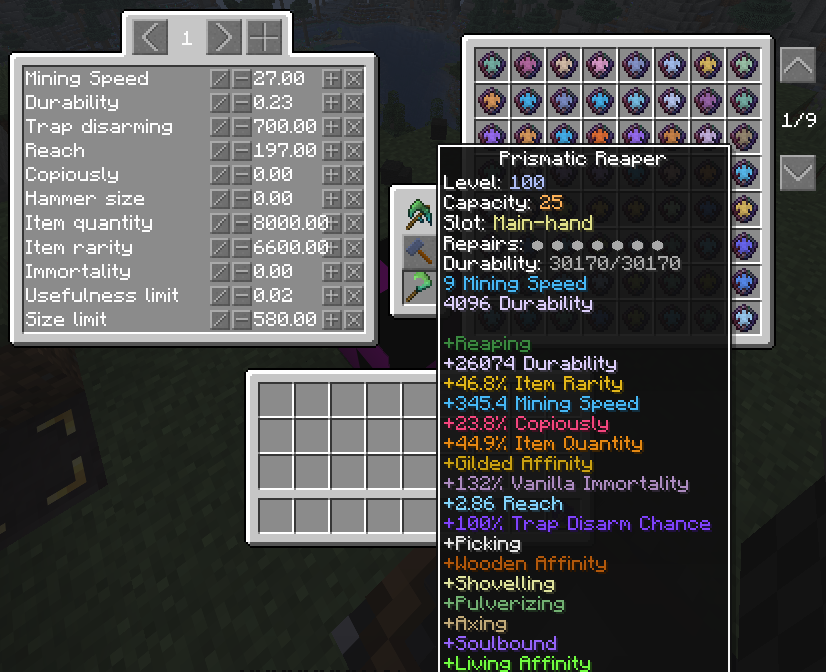
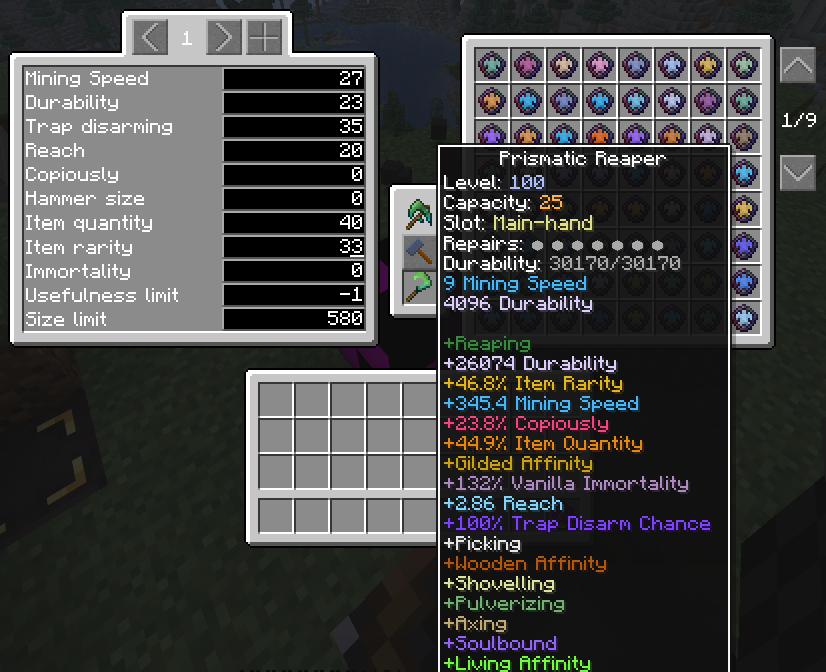
slightly adjusted normalization values photoshoped screenshot to reflect changes

Changed region(s): [[0.2421, 0.0938, 0.454, 0.5]]

diff --git a/src/main/java/implementslegendkt/mod/vaultjp/JewelAttribute.java b/src/main/java/implementslegendkt/mod/vaultjp/JewelAttribute.java
@@ -6,12 +6,12 @@ import iskallia.vault.init.ModGearAttributes;
 public enum JewelAttribute {
     MINING_SPEED(ModGearAttributes.MINING_SPEED, "vaultjp.attrib.mining_speed", 1.0),
     DURABILITY(ModGearAttributes.DURABILITY, "vaultjp.attrib.durability", 100.0),
-    TRAP_DISARMING(ModGearAttributes.TRAP_DISARMING, "vaultjp.attrib.trap_disarm", 1.0),
+    TRAP_DISARMING(ModGearAttributes.TRAP_DISARMING, "vaultjp.attrib.trap_disarm", 0.05),
     REACH(ModGearAttributes.REACH, "vaultjp.attrib.reach", 0.1),
     COPIOUSLY(ModGearAttributes.COPIOUSLY, "vaultjp.attrib.copious", 0.1),
     HAMMER_SIZE(ModGearAttributes.HAMMER_SIZE, "vaultjp.attrib.hammer", 1.0),
-    ITEM_QUANTITY(ModGearAttributes.ITEM_QUANTITY, "vaultjp.attrib.item_quan", 0.01),
-    ITEM_RARITY(ModGearAttributes.ITEM_RARITY, "vaultjp.attrib.item_rar", 0.01),
+    ITEM_QUANTITY(ModGearAttributes.ITEM_QUANTITY, "vaultjp.attrib.item_quan", 0.005),
+    ITEM_RARITY(ModGearAttributes.ITEM_RARITY, "vaultjp.attrib.item_rar", 0.005),
     IMMORTALITY(ModGearAttributes.IMMORTALITY, "vaultjp.attrib.immor", 1.0),
    // JEWEL_SIZE(ModGearAttributes.JEWEL_SIZE)
    /*
